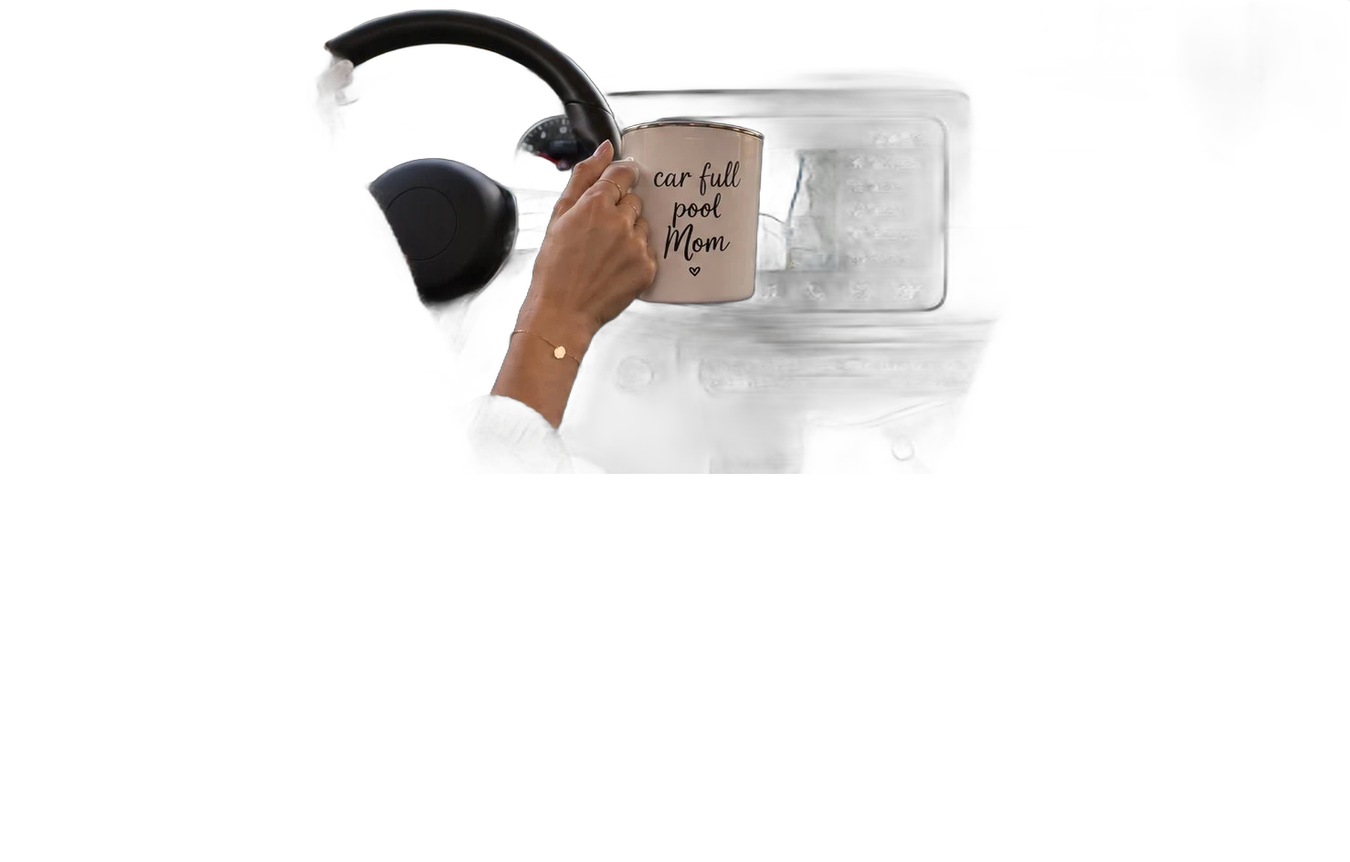
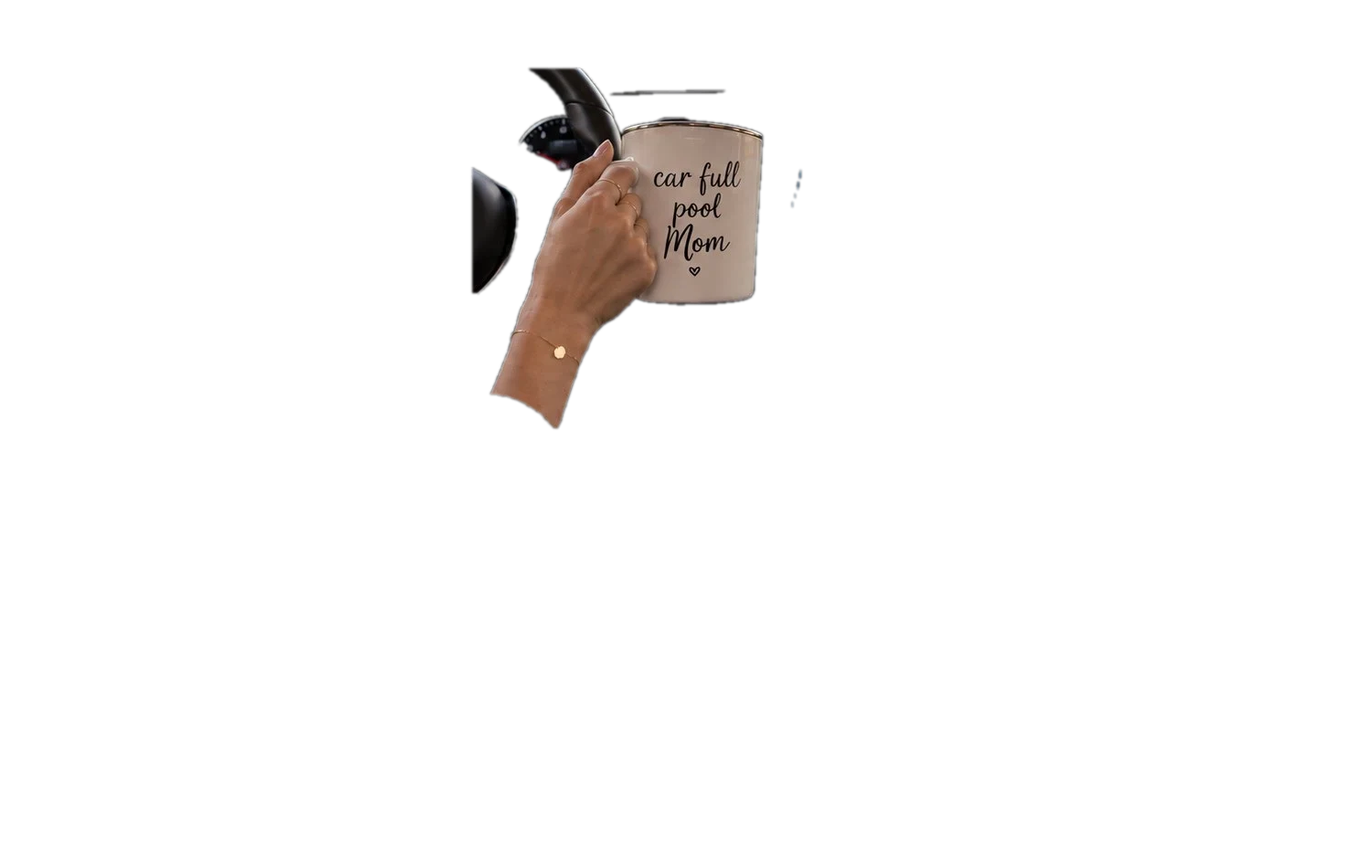
Backgrounds on Home, Shop and Receipts can never show below the RCX pattern strip (works in Safari too); carpool cutout trimmed to the hand and mug so the rest of the photo blurs
Claude-Session: https://claude.ai/code/session_01Pv6CThbqLSgYZwMyrxoG8t

diff --git a/index.html b/index.html
@@ -1010,7 +1010,7 @@ button,nav,header,h1,h2,h3,h4,h5,h6,label,summary,[role="link"],[role="button"],
 </section>
 
 
-<section data-screen-label="Home — mushrooms" style="background:#000;padding:70px 0 0"><div style="max-width:820px;margin:0 auto;padding:0 24px"><div style="display:flex;flex-direction:column;gap:16px"><div data-m="rl-list" style="display:flex;flex-direction:column;gap:16px;align-self:stretch;text-align:center;padding-left:0">
+<div class="home-bgwrap"><section data-screen-label="Home — mushrooms" style="background:#000;padding:70px 0 0"><div style="max-width:820px;margin:0 auto;padding:0 24px"><div style="display:flex;flex-direction:column;gap:16px"><div data-m="rl-list" style="display:flex;flex-direction:column;gap:16px;align-self:stretch;text-align:center;padding-left:0">
 <div class="rcx-row"><div class="rcx-metal rcx-txt"><p style="font-size:clamp(16px,1.35vw,21px);line-height:1.4;color:#FFFFFF;margin:0"><span data-m="rl-name" style="font-size:1.05em">LION'S MANE MUSHROOM</span> for <span style="color:#D4A24A">brain health as you age</span></p></div><a href="#" data-page="m-lm" onClick="{{ go }}" class="rcx-metal rcx-logo" aria-label="Lion's Mane page"><img src="assets/icons/species/rcx-sym-lions-mane-gold.svg" alt=""></a></div>
 <div class="rcx-row"><div class="rcx-metal rcx-txt"><p style="font-size:clamp(16px,1.35vw,21px);line-height:1.4;color:#FFFFFF;margin:0"><span data-m="rl-name" style="font-size:1.05em">CORDYCEPS MUSHROOM</span> for <span style="color:#D4A24A">stamina and endurance</span></p></div><a href="#" data-page="m-cd" onClick="{{ go }}" class="rcx-metal rcx-logo" aria-label="Cordyceps page"><img src="assets/icons/species/rcx-sym-cordyceps-gold.svg" alt=""></a></div>
 <div class="rcx-row"><div class="rcx-metal rcx-txt"><p style="font-size:clamp(16px,1.35vw,21px);line-height:1.4;color:#FFFFFF;margin:0"><span data-m="rl-name" style="font-size:1.05em">TURKEY TAIL MUSHROOM</span> for <span style="color:#D4A24A">a stronger immune system</span></p></div><a href="#" data-page="m-rs" onClick="{{ go }}" class="rcx-metal rcx-logo" aria-label="Turkey Tail page"><img src="assets/icons/species/rcx-sym-turkey-tail-gold.svg" alt=""></a></div>
@@ -1041,8 +1041,8 @@ button,nav,header,h1,h2,h3,h4,h5,h6,label,summary,[role="link"],[role="button"],
 <section class="mx-sec" data-m="mx-cd"><div class="mx-wrap"><div class="mx-title"><img src="assets/icons/species/rcx-sym-cordyceps-gold.svg" alt=""><h2>CORDYCEPS MUSHROOM</h2><p>for <span>stamina and endurance</span></p></div><div class="mx-grid"><a href="#" data-page="m-cd" onClick="{{ go }}" class="mx-box" style="background-image:linear-gradient(to top,rgba(0,0,0,.92) 0%,rgba(0,0,0,.6) 50%,rgba(0,0,0,.3) 100%),url('assets/photo/friends-workout.webp');background-position:center,center 30%"><span class="mx-tag">THE GYM</span><span class="mx-head">Stamina isn't what it used to be. Go longer.</span><span class="mx-text">Cordyceps militaris. For your best efforts, from the forest's.</span><span class="mx-cta">MEET CORDYCEPS&nbsp;→</span></a><a href="#" data-page="how" onClick="{{ go }}" class="mx-box" style="background-image:linear-gradient(to top,rgba(0,0,0,.92) 0%,rgba(0,0,0,.6) 50%,rgba(0,0,0,.3) 100%),url('assets/photo/couple-tent-beach.jpg');background-position:center,center 45%"><span class="mx-tag">LOVE LIFE</span><span class="mx-head">Go the distance. Together.</span><span class="mx-text">Stamina for the miles, the summits and everything after.</span><span class="mx-cta">HOW TO USE&nbsp;→</span></a><a href="https://journals.plos.org/plosone/article?id=10.1371/journal.pone.0351725" target="_blank" rel="noopener" class="mx-box mx-lab"><span class="lab-hd">LAB REPORT · PUBMED SEARCH · OCT 2026</span><span class="lab-title">CORDYCEPS · CORDYCEPS MILITARIS</span><span class="lab-rows"><span class="lab-row"><span class="lab-n">2,946</span><span class="lab-bar"><i style="width:100%"></i></span><span class="lab-l">PAPERS, ALL CORDYCEPS</span></span><span class="lab-row"><span class="lab-n">1,070</span><span class="lab-bar"><i style="width:36%"></i></span><span class="lab-l">C. MILITARIS, IN YOUR PACKET</span></span><span class="lab-row"><span class="lab-n">641</span><span class="lab-bar"><i style="width:22%"></i></span><span class="lab-l">HUMAN RESEARCH</span></span><span class="lab-row"><span class="lab-n">40</span><span class="lab-bar"><i style="width:4%"></i></span><span class="lab-l">CLINICAL TRIALS</span></span></span><span class="lab-src">Source: U.S. National Library of Medicine</span><span class="mx-cta">READ THE STUDY&nbsp;→</span></a><div class="mx-box mx-quote" style="background-image:linear-gradient(rgba(0,0,0,.7),rgba(0,0,0,.78)),url('assets/photo/stock-outdoor-photo.jpg')"><span class="mx-qmark">“</span><span class="mx-head">[Customer quote to come]</span><span class="mx-small">Real words from a real tester, shared with permission.</span></div></div></div></section>
 <section class="mx-sec" data-m="mx-tt"><div class="mx-wrap"><div class="mx-title"><img src="assets/icons/species/rcx-sym-turkey-tail-gold.svg" alt=""><h2>TURKEY TAIL MUSHROOM</h2><p>for <span>a stronger immune system</span></p></div><div class="mx-grid"><a href="#" data-page="m-rs" onClick="{{ go }}" class="mx-box" style="background-image:linear-gradient(to top,rgba(0,0,0,.92) 0%,rgba(0,0,0,.6) 50%,rgba(0,0,0,.35) 100%),url('assets/photo/tt-plane-cabin.webp');background-position:center,center"><span class="mx-tag">THE LONG FLIGHT</span><span class="mx-head">Planes, trains, open offices, new bugs every winter.</span><span class="mx-text">Trametes versicolor. For the commute, the terminal, the shared air.</span><span class="mx-cta">MEET TURKEY TAIL&nbsp;→</span></a><a href="#" data-page="m-rs" onClick="{{ go }}" class="mx-box" style="background-image:linear-gradient(to top,rgba(0,0,0,.92) 0%,rgba(0,0,0,.6) 50%,rgba(0,0,0,.3) 100%),url('assets/photo/receipts-airport-line.jpg');background-position:center,center"><span class="mx-tag">THE TRANSPORTATION LINE</span><span class="mx-head">The world is changing.</span><span class="mx-text">A new flu strain every year. Don't let the next one kick your butt.</span><span class="mx-cta">MEET TURKEY TAIL&nbsp;→</span></a><a href="https://www.sciencedirect.com/science/article/abs/pii/S156757690300290X" target="_blank" rel="noopener" class="mx-box mx-lab"><span class="lab-hd">LAB REPORT · PUBMED SEARCH · OCT 2026</span><span class="lab-title">TURKEY TAIL · TRAMETES VERSICOLOR</span><span class="lab-rows"><span class="lab-row"><span class="lab-n">1,800</span><span class="lab-bar"><i style="width:100%"></i></span><span class="lab-l">PUBLISHED PAPERS</span></span><span class="lab-row"><span class="lab-n">221</span><span class="lab-bar"><i style="width:12%"></i></span><span class="lab-l">HUMAN RESEARCH</span></span><span class="lab-row"><span class="lab-n">101</span><span class="lab-bar"><i style="width:6%"></i></span><span class="lab-l">CLINICAL TRIALS</span></span></span><span class="lab-src">Source: U.S. National Library of Medicine</span><span class="mx-cta">READ THE STUDY&nbsp;→</span></a><div class="mx-box mx-quote" style="background-image:linear-gradient(rgba(0,0,0,.7),rgba(0,0,0,.78)),url('assets/photo/mug-dawn.jpg')"><span class="mx-qmark">“</span><span class="mx-head">[Customer quote to come]</span><span class="mx-small">Real words from a real tester, shared with permission.</span></div></div></div></section>
 <style>.rit-card::after{content:"";position:absolute;inset:0;z-index:1;pointer-events:none;background:linear-gradient(to top,rgba(0,0,0,.92) 0%,rgba(0,0,0,.6) 38%,rgba(0,0,0,0) 62%)}.rit-card>span{z-index:2 !important}.rit-grid{display:grid;grid-template-columns:repeat(3,minmax(0,1fr));gap:16px}.rit-card{height:460px}.rit-zoom{animation:ritZoom 18s ease-in-out infinite alternate}@keyframes ritZoom{from{background-size:cover,auto 100%}to{background-size:cover,auto 112%}}.rit-nav{display:flex;align-items:center;justify-content:center;gap:18px;margin-top:22px;font-family:'Bebas Neue',sans-serif;letter-spacing:.18em;font-size:18px;color:#D4A24A}.rit-arrow{width:56px;height:56px;border-radius:50%;border:3px solid #D4A24A;background:#000;color:#D4A24A;font-size:30px;line-height:1;cursor:pointer;display:inline-flex;align-items:center;justify-content:center}.rit-arrow:hover{background:#D4A24A;color:#000}.mx-sec[data-m="mx-tt"]{padding-bottom:40px !important}@media (max-width:767px){.rit-grid{grid-template-columns:minmax(0,1fr);gap:14px}.rit-card{height:380px}}</style>
-<section class="mx-sec" data-m="mx-rit"><div class="mx-wrap"><div class="mx-title"><h2>CLEAN. NO MESS. WHEREVER YOU ARE.</h2><p>Tubs of powder are messy. <span>Single serving packets are clean,</span> built for an on the go lifestyle.</p></div><sc-if value="{{ rit0 }}" hint-placeholder-val="{{ true }}"><div class="rit-grid"><a href="#" data-page="how" onClick="{{ go }}" class="mx-box rit-card" data-lift-origin="0.535 0.951" data-lift-bg="assets/cutouts/kitchen-shake-cutout.webp" data-lift-desktop="" data-lift-dim="brightness(1)" data-lift-scale="1.08" data-lift-dur="9000" data-lift-delay="1500" data-lift-d-delay="1500" data-lift-fade="1500" aria-label="A woman making a smoothie in her kitchen" style="background-image:linear-gradient(to top,rgba(0,0,0,.92) 0%,rgba(0,0,0,.55) 45%,rgba(0,0,0,.15) 100%),url('assets/photo/kitchen-shake.jpg');background-position:center,center;background-size:cover,cover"><span class="mx-tag">AT HOME</span><span class="mx-head">In your kitchen</span><span class="mx-text">Stir one into the coffee you already make every morning. Or tear it into the smoothie.</span></a><div class="mx-box rit-card mx-todo"><span class="mx-ph">IMAGE TO COME · A ROAD TRIP, COFFEE CUP ON THE DASH, GLOVEBOX OPEN</span><span class="mx-tag">ON THE ROAD</span><span class="mx-head">Glovebox ready</span><span class="mx-text">A few packets in the glovebox. Tear one into the gas station coffee and keep driving.</span></div><a href="#" data-page="how" onClick="{{ go }}" class="mx-box rit-card" data-lift-origin="0.465 0.695" data-lift-bg="assets/cutouts/receipts-football-training-cutout.webp" data-lift-desktop="" data-lift-dim="brightness(1)" data-lift-scale="1.08" data-lift-dur="9000" data-lift-delay="1500" data-lift-d-delay="1500" data-lift-fade="1500" aria-label="Athletes training on a field" style="background-image:linear-gradient(to top,rgba(0,0,0,.92) 0%,rgba(0,0,0,.55) 45%,rgba(0,0,0,.15) 100%),url('assets/photo/receipts-football-training-crop-v2.jpg');background-position:center,center;background-size:cover,cover"><span class="mx-tag">YOUR WORKOUT ROUTINE</span><span class="mx-head">Training day</span><span class="mx-text">No scoop, no tub in the bag. One packet into the bottle and go.</span></a></div></sc-if><sc-if value="{{ rit1 }}" hint-placeholder-val="{{ false }}"><div class="rit-grid"><a href="#" data-page="how" onClick="{{ go }}" class="mx-box rit-card"  data-lift-origin="0.478 0.55" data-lift-bg="assets/cutouts/receipts-row-photo-cutout.webp" data-lift-desktop="" data-lift-dim="brightness(1)" data-lift-scale="1.04" data-lift-dur="16000" data-lift-delay="2500" data-lift-d-delay="2500" data-lift-fade="2500" aria-label="A mom with her coffee on the school run" style="background-image:linear-gradient(to top,rgba(0,0,0,.92) 0%,rgba(0,0,0,.7) 45%,rgba(0,0,0,.5) 100%),url('assets/photo/receipts-row-photo.jpg');background-position:center,center;background-size:cover,cover"><span class="mx-tag">THE SCHOOL RUN</span><span class="mx-head">Carpool mornings</span><span class="mx-text">Small enough for your purse or pocket. No powder loose in the bottom of anything.</span></a><a href="#" data-page="how" onClick="{{ go }}" class="mx-box rit-card"  data-lift-origin="0.672 0.681" data-lift-bg="assets/cutouts/a-rider-pausing-on-a-granite-ridge-cutout.webp" data-lift-desktop="" data-lift-dim="brightness(1)" data-lift-scale="1.04" data-lift-dur="16000" data-lift-delay="2500" data-lift-d-delay="2500" data-lift-fade="2500" aria-label="A mountain biker pausing on a high granite ridge" style="background-image:linear-gradient(to top,rgba(0,0,0,.92) 0%,rgba(0,0,0,.7) 45%,rgba(0,0,0,.5) 100%),url('assets/photo/a-rider-pausing-on-a-granite-ridge.webp');background-position:center,center;background-size:cover,cover"><span class="mx-tag">ON THE TRAIL</span><span class="mx-head">For the switchbacks</span><span class="mx-text">Weighs nothing. Takes no space. Tear it into the thermos at the top.</span></a><a href="#" data-page="how" onClick="{{ go }}" class="mx-box rit-card" data-lift-origin="0.434 0.875" data-lift-bg="assets/cutouts/kettle-tent-mist-cutout.webp" data-lift-desktop="" data-lift-dim="brightness(1)" data-lift-scale="1.08" data-lift-dur="9000" data-lift-delay="1500" data-lift-d-delay="1500" data-lift-fade="1500" aria-label="A kettle on the stove outside a tent" style="background-image:linear-gradient(to top,rgba(0,0,0,.92) 0%,rgba(0,0,0,.55) 45%,rgba(0,0,0,.15) 100%),url('assets/photo/kettle-tent-mist.jpg');background-position:center,center;background-size:cover,cover"><span class="mx-tag">AT THE CAMPSITE</span><span class="mx-head">Around the fire</span><span class="mx-text">Boil the water, tear the packet, drink it by the fire.</span></a></div></sc-if><div class="rit-nav"><button class="rit-arrow" onClick="{{ ritMove }}" aria-label="Previous set">‹</button><span>{{ ritLabel }}</span><button class="rit-arrow" onClick="{{ ritMove }}" aria-label="Next set">›</button></div></div></section>
-<style>@media (min-width:768px){section[data-screen-label="Home — mushrooms"],#packet,.mx-sec{position:relative;isolation:isolate;clip-path:inset(0);background:none !important}section[data-screen-label="Home — mushrooms"]::before,#packet::before,.mx-sec::before{content:"";position:fixed;inset:0;z-index:-2;pointer-events:none;background:url('assets/photo/home-bg-coast-dusk.jpg') center 40% / cover no-repeat;will-change:transform;transform:translateZ(0)}section[data-screen-label="Home — mushrooms"]::after,#packet::after,.mx-sec::after{content:"";position:absolute;inset:0;z-index:-1;pointer-events:none;background:rgba(0,0,0,.62)}section[data-screen-label="Home — mushrooms"]::after{background:linear-gradient(#000 0,rgba(0,0,0,.62) 180px)}#packet::after{background:rgba(0,0,0,.62)}.mx-sec[data-m="mx-rit"]::after{background:linear-gradient(rgba(0,0,0,.62) calc(100% - 120px),#000 100%)}}</style>
+<section class="mx-sec" data-m="mx-rit"><div class="mx-wrap"><div class="mx-title"><h2>CLEAN. NO MESS. WHEREVER YOU ARE.</h2><p>Tubs of powder are messy. <span>Single serving packets are clean,</span> built for an on the go lifestyle.</p></div><sc-if value="{{ rit0 }}" hint-placeholder-val="{{ true }}"><div class="rit-grid"><a href="#" data-page="how" onClick="{{ go }}" class="mx-box rit-card" data-lift-origin="0.535 0.951" data-lift-bg="assets/cutouts/kitchen-shake-cutout.webp" data-lift-desktop="" data-lift-dim="brightness(1)" data-lift-scale="1.08" data-lift-dur="9000" data-lift-delay="1500" data-lift-d-delay="1500" data-lift-fade="1500" aria-label="A woman making a smoothie in her kitchen" style="background-image:linear-gradient(to top,rgba(0,0,0,.92) 0%,rgba(0,0,0,.55) 45%,rgba(0,0,0,.15) 100%),url('assets/photo/kitchen-shake.jpg');background-position:center,center;background-size:cover,cover"><span class="mx-tag">AT HOME</span><span class="mx-head">In your kitchen</span><span class="mx-text">Stir one into the coffee you already make every morning. Or tear it into the smoothie.</span></a><div class="mx-box rit-card mx-todo"><span class="mx-ph">IMAGE TO COME · A ROAD TRIP, COFFEE CUP ON THE DASH, GLOVEBOX OPEN</span><span class="mx-tag">ON THE ROAD</span><span class="mx-head">Glovebox ready</span><span class="mx-text">A few packets in the glovebox. Tear one into the gas station coffee and keep driving.</span></div><a href="#" data-page="how" onClick="{{ go }}" class="mx-box rit-card" data-lift-origin="0.465 0.695" data-lift-bg="assets/cutouts/receipts-football-training-cutout.webp" data-lift-desktop="" data-lift-dim="brightness(1)" data-lift-scale="1.08" data-lift-dur="9000" data-lift-delay="1500" data-lift-d-delay="1500" data-lift-fade="1500" aria-label="Athletes training on a field" style="background-image:linear-gradient(to top,rgba(0,0,0,.92) 0%,rgba(0,0,0,.55) 45%,rgba(0,0,0,.15) 100%),url('assets/photo/receipts-football-training-crop-v2.jpg');background-position:center,center;background-size:cover,cover"><span class="mx-tag">YOUR WORKOUT ROUTINE</span><span class="mx-head">Training day</span><span class="mx-text">No scoop, no tub in the bag. One packet into the bottle and go.</span></a></div></sc-if><sc-if value="{{ rit1 }}" hint-placeholder-val="{{ false }}"><div class="rit-grid"><a href="#" data-page="how" onClick="{{ go }}" class="mx-box rit-card"  data-lift-origin="0.472 0.5" data-lift-bg="assets/cutouts/receipts-row-photo-cutout.webp" data-lift-desktop="" data-lift-dim="brightness(1)" data-lift-scale="1.04" data-lift-dur="16000" data-lift-delay="2500" data-lift-d-delay="2500" data-lift-fade="2500" aria-label="A mom with her coffee on the school run" style="background-image:linear-gradient(to top,rgba(0,0,0,.92) 0%,rgba(0,0,0,.7) 45%,rgba(0,0,0,.5) 100%),url('assets/photo/receipts-row-photo.jpg');background-position:center,center;background-size:cover,cover"><span class="mx-tag">THE SCHOOL RUN</span><span class="mx-head">Carpool mornings</span><span class="mx-text">Small enough for your purse or pocket. No powder loose in the bottom of anything.</span></a><a href="#" data-page="how" onClick="{{ go }}" class="mx-box rit-card"  data-lift-origin="0.672 0.681" data-lift-bg="assets/cutouts/a-rider-pausing-on-a-granite-ridge-cutout.webp" data-lift-desktop="" data-lift-dim="brightness(1)" data-lift-scale="1.04" data-lift-dur="16000" data-lift-delay="2500" data-lift-d-delay="2500" data-lift-fade="2500" aria-label="A mountain biker pausing on a high granite ridge" style="background-image:linear-gradient(to top,rgba(0,0,0,.92) 0%,rgba(0,0,0,.7) 45%,rgba(0,0,0,.5) 100%),url('assets/photo/a-rider-pausing-on-a-granite-ridge.webp');background-position:center,center;background-size:cover,cover"><span class="mx-tag">ON THE TRAIL</span><span class="mx-head">For the switchbacks</span><span class="mx-text">Weighs nothing. Takes no space. Tear it into the thermos at the top.</span></a><a href="#" data-page="how" onClick="{{ go }}" class="mx-box rit-card" data-lift-origin="0.434 0.875" data-lift-bg="assets/cutouts/kettle-tent-mist-cutout.webp" data-lift-desktop="" data-lift-dim="brightness(1)" data-lift-scale="1.08" data-lift-dur="9000" data-lift-delay="1500" data-lift-d-delay="1500" data-lift-fade="1500" aria-label="A kettle on the stove outside a tent" style="background-image:linear-gradient(to top,rgba(0,0,0,.92) 0%,rgba(0,0,0,.55) 45%,rgba(0,0,0,.15) 100%),url('assets/photo/kettle-tent-mist.jpg');background-position:center,center;background-size:cover,cover"><span class="mx-tag">AT THE CAMPSITE</span><span class="mx-head">Around the fire</span><span class="mx-text">Boil the water, tear the packet, drink it by the fire.</span></a></div></sc-if><div class="rit-nav"><button class="rit-arrow" onClick="{{ ritMove }}" aria-label="Previous set">‹</button><span>{{ ritLabel }}</span><button class="rit-arrow" onClick="{{ ritMove }}" aria-label="Next set">›</button></div></div></section></div>
+<style>@media (min-width:768px){section[data-screen-label="Home — mushrooms"],#packet,.mx-sec{position:relative;isolation:isolate;clip-path:inset(0);background:none !important}.home-bgwrap{position:relative;isolation:isolate;clip-path:inset(0)}.home-bgwrap::before{content:"";display:block;position:sticky;top:0;height:100vh;margin-bottom:-100vh;z-index:-2;pointer-events:none;background:url('assets/photo/home-bg-coast-dusk.jpg') center 40% / cover no-repeat}section[data-screen-label="Home — mushrooms"]::after,#packet::after,.mx-sec::after{content:"";position:absolute;inset:0;z-index:-1;pointer-events:none;background:rgba(0,0,0,.62)}section[data-screen-label="Home — mushrooms"]::after{background:linear-gradient(#000 0,rgba(0,0,0,.62) 180px)}#packet::after{background:rgba(0,0,0,.62)}.mx-sec[data-m="mx-rit"]::after{background:linear-gradient(rgba(0,0,0,.62) calc(100% - 120px),#000 100%)}}</style>
 
 
 <section data-screen-label="Home — on the go" style="background:#000">
@@ -1215,7 +1215,7 @@ button,nav,header,h1,h2,h3,h4,h5,h6,label,summary,[role="link"],[role="button"],
 </sc-if>
 
 <sc-if value="{{ isShop }}" hint-placeholder-val="{{ false }}">
-<style>[data-screen-label="Shop"]{position:relative;isolation:isolate;clip-path:inset(0);background:#000}[data-screen-label="Shop"]::before{content:"";position:fixed;inset:0;z-index:-2;pointer-events:none;background:url('assets/photo/shop-tennis-handshake-nobrand.jpg') center / cover no-repeat;transform:translateZ(0)}[data-screen-label="Shop"]::after{content:"";position:absolute;inset:0;z-index:-1;pointer-events:none;background:rgba(0,0,0,.74)}[data-screen-label="Shop"]>section{background:transparent !important;background-image:none !important}[data-screen-label="Shop"]>section:nth-of-type(2)>div:not([data-m]){display:none !important}[data-screen-label="Shop"]>section:nth-of-type(2){padding-top:10px !important;padding-bottom:30px !important}[data-screen-label="Shop"]>section:first-child>div{top:0 !important;padding:120px 28px 40px !important;display:flex;flex-direction:column;align-items:center;text-align:center}[data-screen-label="Shop"]>section:first-child h1{color:#D4A24A !important;max-width:none !important;padding:22px 34px;border:3px solid #D4A24A;border-radius:18px;background:rgba(0,0,0,.6);box-shadow:0 10px 28px rgba(0,0,0,.65);text-wrap:balance}[data-screen-label="Shop"]>section:first-child{min-height:0 !important;align-items:center !important}[data-screen-label="Shop"] article{border:3px solid #D4A24A !important;border-radius:18px !important;overflow:hidden;background:rgba(0,0,0,.72) !important;box-shadow:0 10px 28px rgba(0,0,0,.65);text-align:center}[data-screen-label="Shop"] article>div:first-child{border-radius:15px 15px 0 0}[data-screen-label="Shop"] article h2,[data-screen-label="Shop"] article h3,[data-screen-label="Shop"] article p{text-wrap:balance}[data-screen-label="Shop"] article [style*="display:flex;gap:8px"],[data-screen-label="Shop"] article [style*="display:flex;gap:10px"]{justify-content:center}[data-screen-label="Shop"] [data-m="badges"]{border:3px solid #D4A24A !important;border-radius:18px;background:rgba(0,0,0,.66)}[data-screen-label="Shop"] [data-m="soon-sec"] article>div:first-child{filter:brightness(.85) !important}[data-screen-label="Shop"] [data-m="soon-sec"] p:first-of-type{color:#D4A24A !important;text-align:center}.sr-sec{padding:20px 28px 80px}.sr-wrap{max-width:1300px;margin:0 auto}.sr-grid{display:grid;grid-template-columns:repeat(3,minmax(0,1fr));gap:16px}@media (max-width:900px){.sr-grid{grid-template-columns:minmax(0,1fr)}}@media (max-width:767px){[data-screen-label="Shop"]::before{position:absolute}[data-screen-label="Shop"]>section:first-child>div{padding:72px 16px 24px !important}[data-screen-label="Shop"]>section:first-child h1{font-size:31px !important;padding:18px 16px}[data-screen-label="Shop"]>section{padding-left:14px !important;padding-right:14px !important}}</style>
+<style>[data-screen-label="Shop"]{position:relative;isolation:isolate;clip-path:inset(0);background:#000}[data-screen-label="Shop"]::before{content:"";display:block;position:sticky;top:0;height:100vh;margin-bottom:-100vh;z-index:-2;pointer-events:none;background:url('assets/photo/shop-tennis-handshake-nobrand.jpg') center center / cover no-repeat}[data-screen-label="Shop"]::after{content:"";position:absolute;inset:0;z-index:-1;pointer-events:none;background:rgba(0,0,0,.74)}[data-screen-label="Shop"]>section{background:transparent !important;background-image:none !important}[data-screen-label="Shop"]>section:nth-of-type(2)>div:not([data-m]){display:none !important}[data-screen-label="Shop"]>section:nth-of-type(2){padding-top:10px !important;padding-bottom:30px !important}[data-screen-label="Shop"]>section:first-child>div{top:0 !important;padding:120px 28px 40px !important;display:flex;flex-direction:column;align-items:center;text-align:center}[data-screen-label="Shop"]>section:first-child h1{color:#D4A24A !important;max-width:none !important;padding:22px 34px;border:3px solid #D4A24A;border-radius:18px;background:rgba(0,0,0,.6);box-shadow:0 10px 28px rgba(0,0,0,.65);text-wrap:balance}[data-screen-label="Shop"]>section:first-child{min-height:0 !important;align-items:center !important}[data-screen-label="Shop"] article{border:3px solid #D4A24A !important;border-radius:18px !important;overflow:hidden;background:rgba(0,0,0,.72) !important;box-shadow:0 10px 28px rgba(0,0,0,.65);text-align:center}[data-screen-label="Shop"] article>div:first-child{border-radius:15px 15px 0 0}[data-screen-label="Shop"] article h2,[data-screen-label="Shop"] article h3,[data-screen-label="Shop"] article p{text-wrap:balance}[data-screen-label="Shop"] article [style*="display:flex;gap:8px"],[data-screen-label="Shop"] article [style*="display:flex;gap:10px"]{justify-content:center}[data-screen-label="Shop"] [data-m="badges"]{border:3px solid #D4A24A !important;border-radius:18px;background:rgba(0,0,0,.66)}[data-screen-label="Shop"] [data-m="soon-sec"] article>div:first-child{filter:brightness(.85) !important}[data-screen-label="Shop"] [data-m="soon-sec"] p:first-of-type{color:#D4A24A !important;text-align:center}.sr-sec{padding:20px 28px 80px}.sr-wrap{max-width:1300px;margin:0 auto}.sr-grid{display:grid;grid-template-columns:repeat(3,minmax(0,1fr));gap:16px}@media (max-width:900px){.sr-grid{grid-template-columns:minmax(0,1fr)}}@media (max-width:767px){[data-screen-label="Shop"]::before{position:absolute;inset:0;height:auto;margin:0}[data-screen-label="Shop"]>section:first-child>div{padding:72px 16px 24px !important}[data-screen-label="Shop"]>section:first-child h1{font-size:31px !important;padding:18px 16px}[data-screen-label="Shop"]>section{padding-left:14px !important;padding-right:14px !important}}</style>
 <div data-screen-label="Shop">
 
 <section style="position:relative;margin-bottom:-1px;min-height:52vh;display:flex;align-items:flex-end;background-color:#000;background-image:linear-gradient(to top,rgba(0,0,0,.96) 0%,rgba(0,0,0,.76) 60%,rgba(0,0,0,.62) 100%),url('assets/photo/coffee-asset.webp');background-size:cover;background-position:center">
@@ -1531,7 +1531,7 @@ button,nav,header,h1,h2,h3,h4,h5,h6,label,summary,[role="link"],[role="button"],
 </sc-if>
 
 <sc-if value="{{ isReceipts }}" hint-placeholder-val="{{ false }}">
-<style>[data-screen-label="Receipts"]{position:relative;isolation:isolate;clip-path:inset(0);background:#000 !important}[data-screen-label="Receipts"]::before{content:"";position:fixed;inset:0;z-index:-2;pointer-events:none;background:url('assets/photo/receipts-beach-camp.jpg') center / cover no-repeat;transform:translateZ(0)}[data-screen-label="Receipts"]::after{content:"";position:absolute;inset:0;z-index:-1;pointer-events:none;background:rgba(0,0,0,.58)}[data-screen-label="Receipts"]>section:first-child{background:transparent !important;background-image:none !important}[data-screen-label="Receipts"]>section:first-child h1{display:inline-block;color:#D4A24A !important;padding:20px 34px;border:3px solid #D4A24A;border-radius:18px;background:rgba(0,0,0,.6);box-shadow:0 10px 28px rgba(0,0,0,.65)}[data-screen-label="Receipts"]>div{background:transparent !important}[data-screen-label="Receipts"]>section:first-child p{padding:18px 26px;border:3px solid #D4A24A;border-radius:18px;background:rgba(0,0,0,.66);box-shadow:0 10px 28px rgba(0,0,0,.65);margin-top:14px !important;text-wrap:balance}[data-screen-label="Receipts"] section{background-color:transparent !important}[data-screen-label="Receipts"]>section:last-of-type:has([data-m="row2x2"]){display:none !important}.rc-sec{padding:40px 28px}.rc-sec .mx-title{margin-bottom:22px}.rc-grid3{display:grid;grid-template-columns:repeat(3,minmax(0,1fr));gap:16px;max-width:1300px;margin:0 auto}.rc-line{height:auto;min-height:330px;justify-content:center}.rc-k{font-family:'IBM Plex Mono',monospace;font-weight:500;font-size:20px;letter-spacing:.08em;color:#D4A24A}.rc-look{font-family:'IBM Plex Mono',monospace;font-size:12px;line-height:1.6;letter-spacing:.04em;color:#BFE9FF;max-width:40ch;border-top:1px dashed rgba(127,211,255,.35);padding-top:10px}@media (max-width:900px){.rc-grid3{grid-template-columns:minmax(0,1fr)}}@media (max-width:767px){[data-screen-label="Receipts"]::before{position:absolute}.rc-sec{padding:24px 14px}}</style>
+<style>[data-screen-label="Receipts"]{position:relative;isolation:isolate;clip-path:inset(0);background:#000 !important}[data-screen-label="Receipts"]::before{content:"";display:block;position:sticky;top:0;height:100vh;margin-bottom:-100vh;z-index:-2;pointer-events:none;background:url('assets/photo/receipts-beach-camp.jpg') center center / cover no-repeat}[data-screen-label="Receipts"]::after{content:"";position:absolute;inset:0;z-index:-1;pointer-events:none;background:rgba(0,0,0,.58)}[data-screen-label="Receipts"]>section:first-child{background:transparent !important;background-image:none !important}[data-screen-label="Receipts"]>section:first-child h1{display:inline-block;color:#D4A24A !important;padding:20px 34px;border:3px solid #D4A24A;border-radius:18px;background:rgba(0,0,0,.6);box-shadow:0 10px 28px rgba(0,0,0,.65)}[data-screen-label="Receipts"]>div{background:transparent !important}[data-screen-label="Receipts"]>section:first-child p{padding:18px 26px;border:3px solid #D4A24A;border-radius:18px;background:rgba(0,0,0,.66);box-shadow:0 10px 28px rgba(0,0,0,.65);margin-top:14px !important;text-wrap:balance}[data-screen-label="Receipts"] section{background-color:transparent !important}[data-screen-label="Receipts"]>section:last-of-type:has([data-m="row2x2"]){display:none !important}.rc-sec{padding:40px 28px}.rc-sec .mx-title{margin-bottom:22px}.rc-grid3{display:grid;grid-template-columns:repeat(3,minmax(0,1fr));gap:16px;max-width:1300px;margin:0 auto}.rc-line{height:auto;min-height:330px;justify-content:center}.rc-k{font-family:'IBM Plex Mono',monospace;font-weight:500;font-size:20px;letter-spacing:.08em;color:#D4A24A}.rc-look{font-family:'IBM Plex Mono',monospace;font-size:12px;line-height:1.6;letter-spacing:.04em;color:#BFE9FF;max-width:40ch;border-top:1px dashed rgba(127,211,255,.35);padding-top:10px}@media (max-width:900px){.rc-grid3{grid-template-columns:minmax(0,1fr)}}@media (max-width:767px){[data-screen-label="Receipts"]::before{position:absolute;inset:0;height:auto;margin:0}.rc-sec{padding:24px 14px}}</style>
 <div data-screen-label="Receipts" style="background:#050504">
 
 <section style="position:relative;padding:88px 28px 0;background-image:linear-gradient(rgba(0,0,0,.88),rgba(0,0,0,.95)),url('assets/photo/receipts-tennis-noblog.jpg');background-size:cover;background-position:center">
